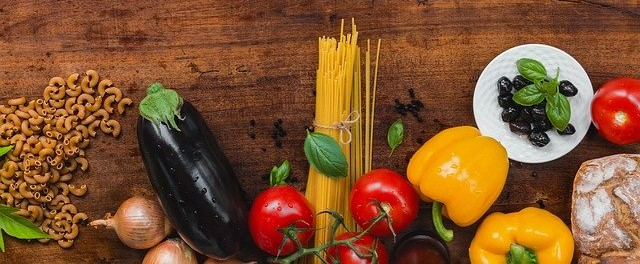
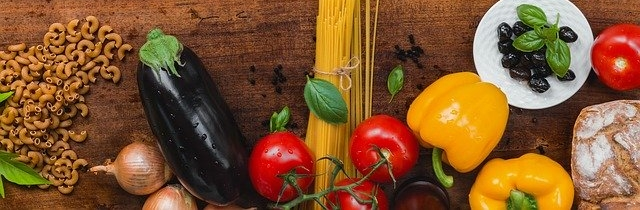
Edit bootstrap

diff --git a/bootstrap.html b/bootstrap.html
@@ -87,21 +87,21 @@
     </ol>
     <div class="carousel-inner">
       <div class="carousel-item active">
-        <img src="./images/cook1.jpg" style="height: 450px;" class="d-block w-100" alt="...">
+        <img src="./images/cook1.jpg" class="d-block w-100" alt="...">
         <div class="carousel-caption d-none d-md-block">
           <h5>First slide label</h5>
           <p>Nulla vitae elit libero, a pharetra augue mollis interdum.</p>
         </div>
       </div>
       <div class="carousel-item">
-        <img src="./images/cook2.jpg" style="height: 450px;" class="d-block w-100" alt="...">
+        <img src="./images/cook2.jpg" class="d-block w-100" alt="...">
         <div class="carousel-caption d-none d-md-block">
           <h5>Second slide label</h5>
           <p>Lorem ipsum dolor sit amet, consectetur adipiscing elit.</p>
         </div>
       </div>
       <div class="carousel-item">
-        <img src="./images/cook3.jpg" style="height: 450px;" class="d-block w-100" alt="...">
+        <img src="./images/cook3.jpg" class="d-block w-100" alt="...">
         <div class="carousel-caption d-none d-md-block">
           <h5>Third slide label</h5>
           <p>Praesent commodo cursus magna, vel scelerisque nisl consectetur.</p>
